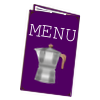
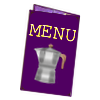
Add files via upload

Changed region(s): [[0.27, 0.24, 0.78, 0.42], [0.33, 0.03, 0.66, 0.15]]

diff --git a/portfolio.css b/portfolio.css
@@ -32,8 +32,8 @@ header {
   }
 
   h1{
-    font-family:'Franklin Gothic Medium', 'Arial Narrow', Arial, sans-serif ;
-    color:#fff
+    font-family:'courier';
+    color:#fffa5e
   }
 
 
@@ -213,8 +213,8 @@ header {
   }
   
   .menu-icon img {
-    width: 100px;
-    height: 100px;
+    width: 90px;
+    height: 90px;
   }
   
   #menu-toggle {

diff --git a/styles.css b/styles.css
@@ -152,8 +152,8 @@ body {
 }
 
 .menu-icon img {
-  width: 100px;
-  height: 100px;
+  width: 90px;
+  height: 90px;
 }
 
 #menu-toggle {
